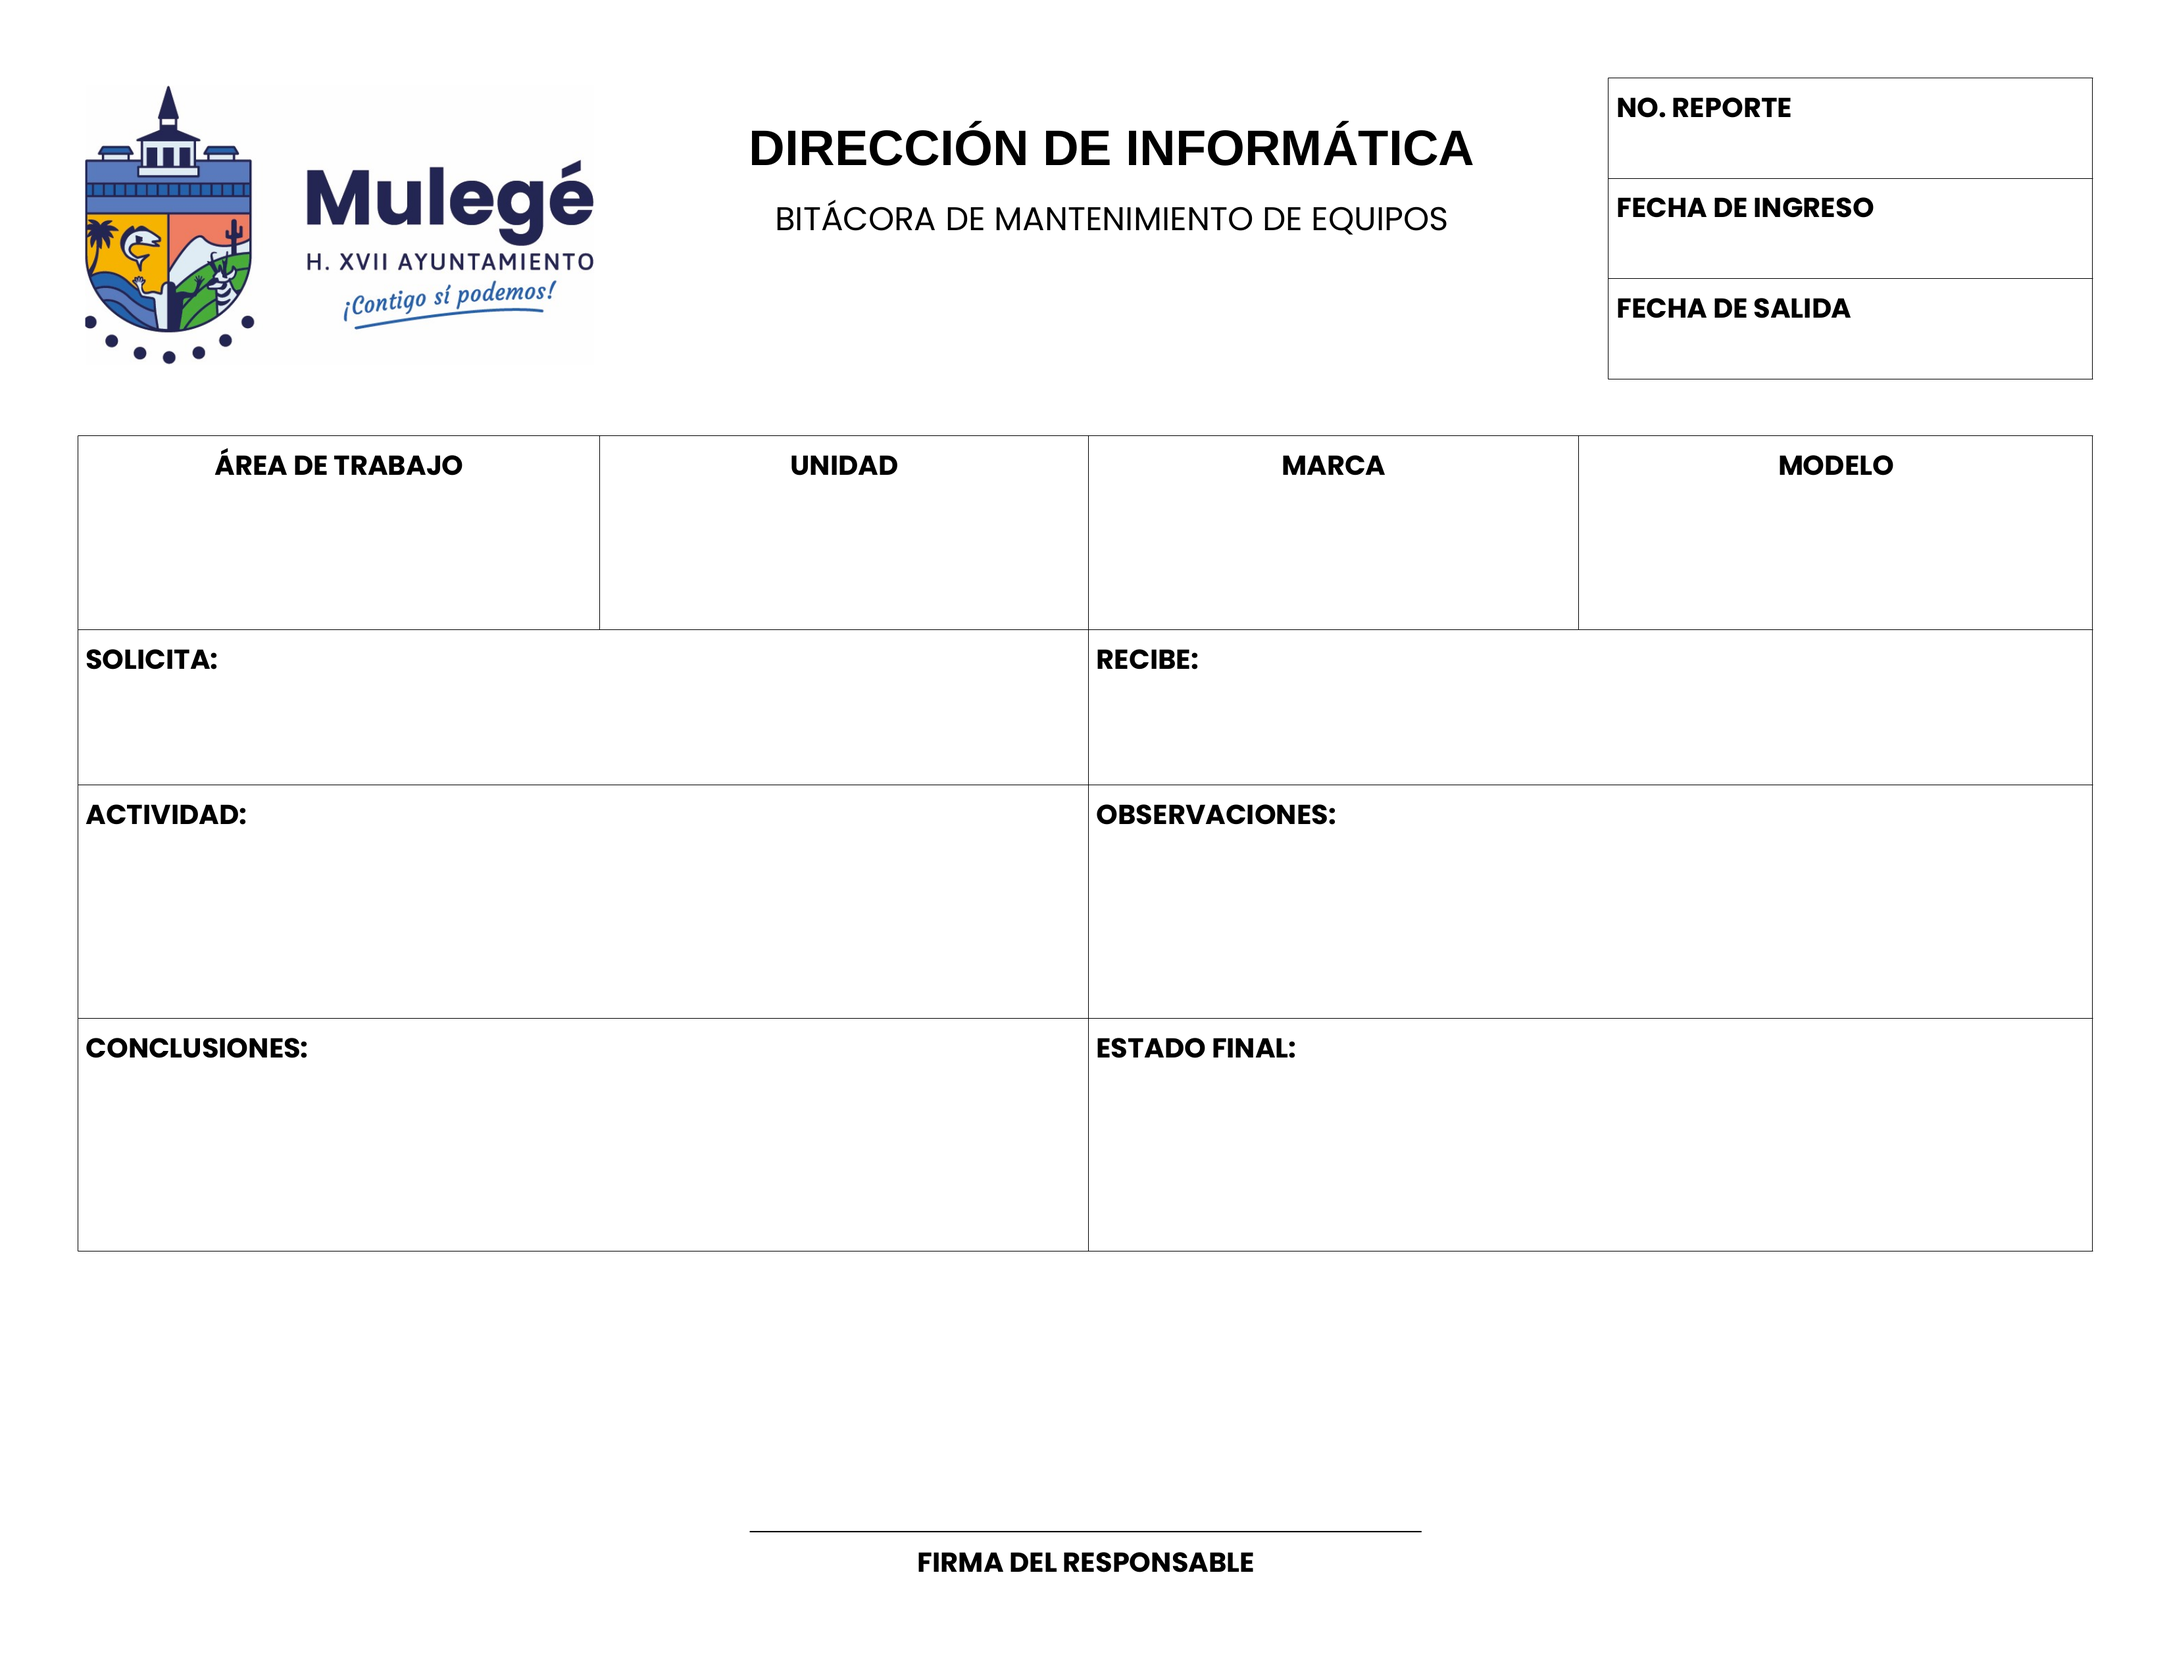
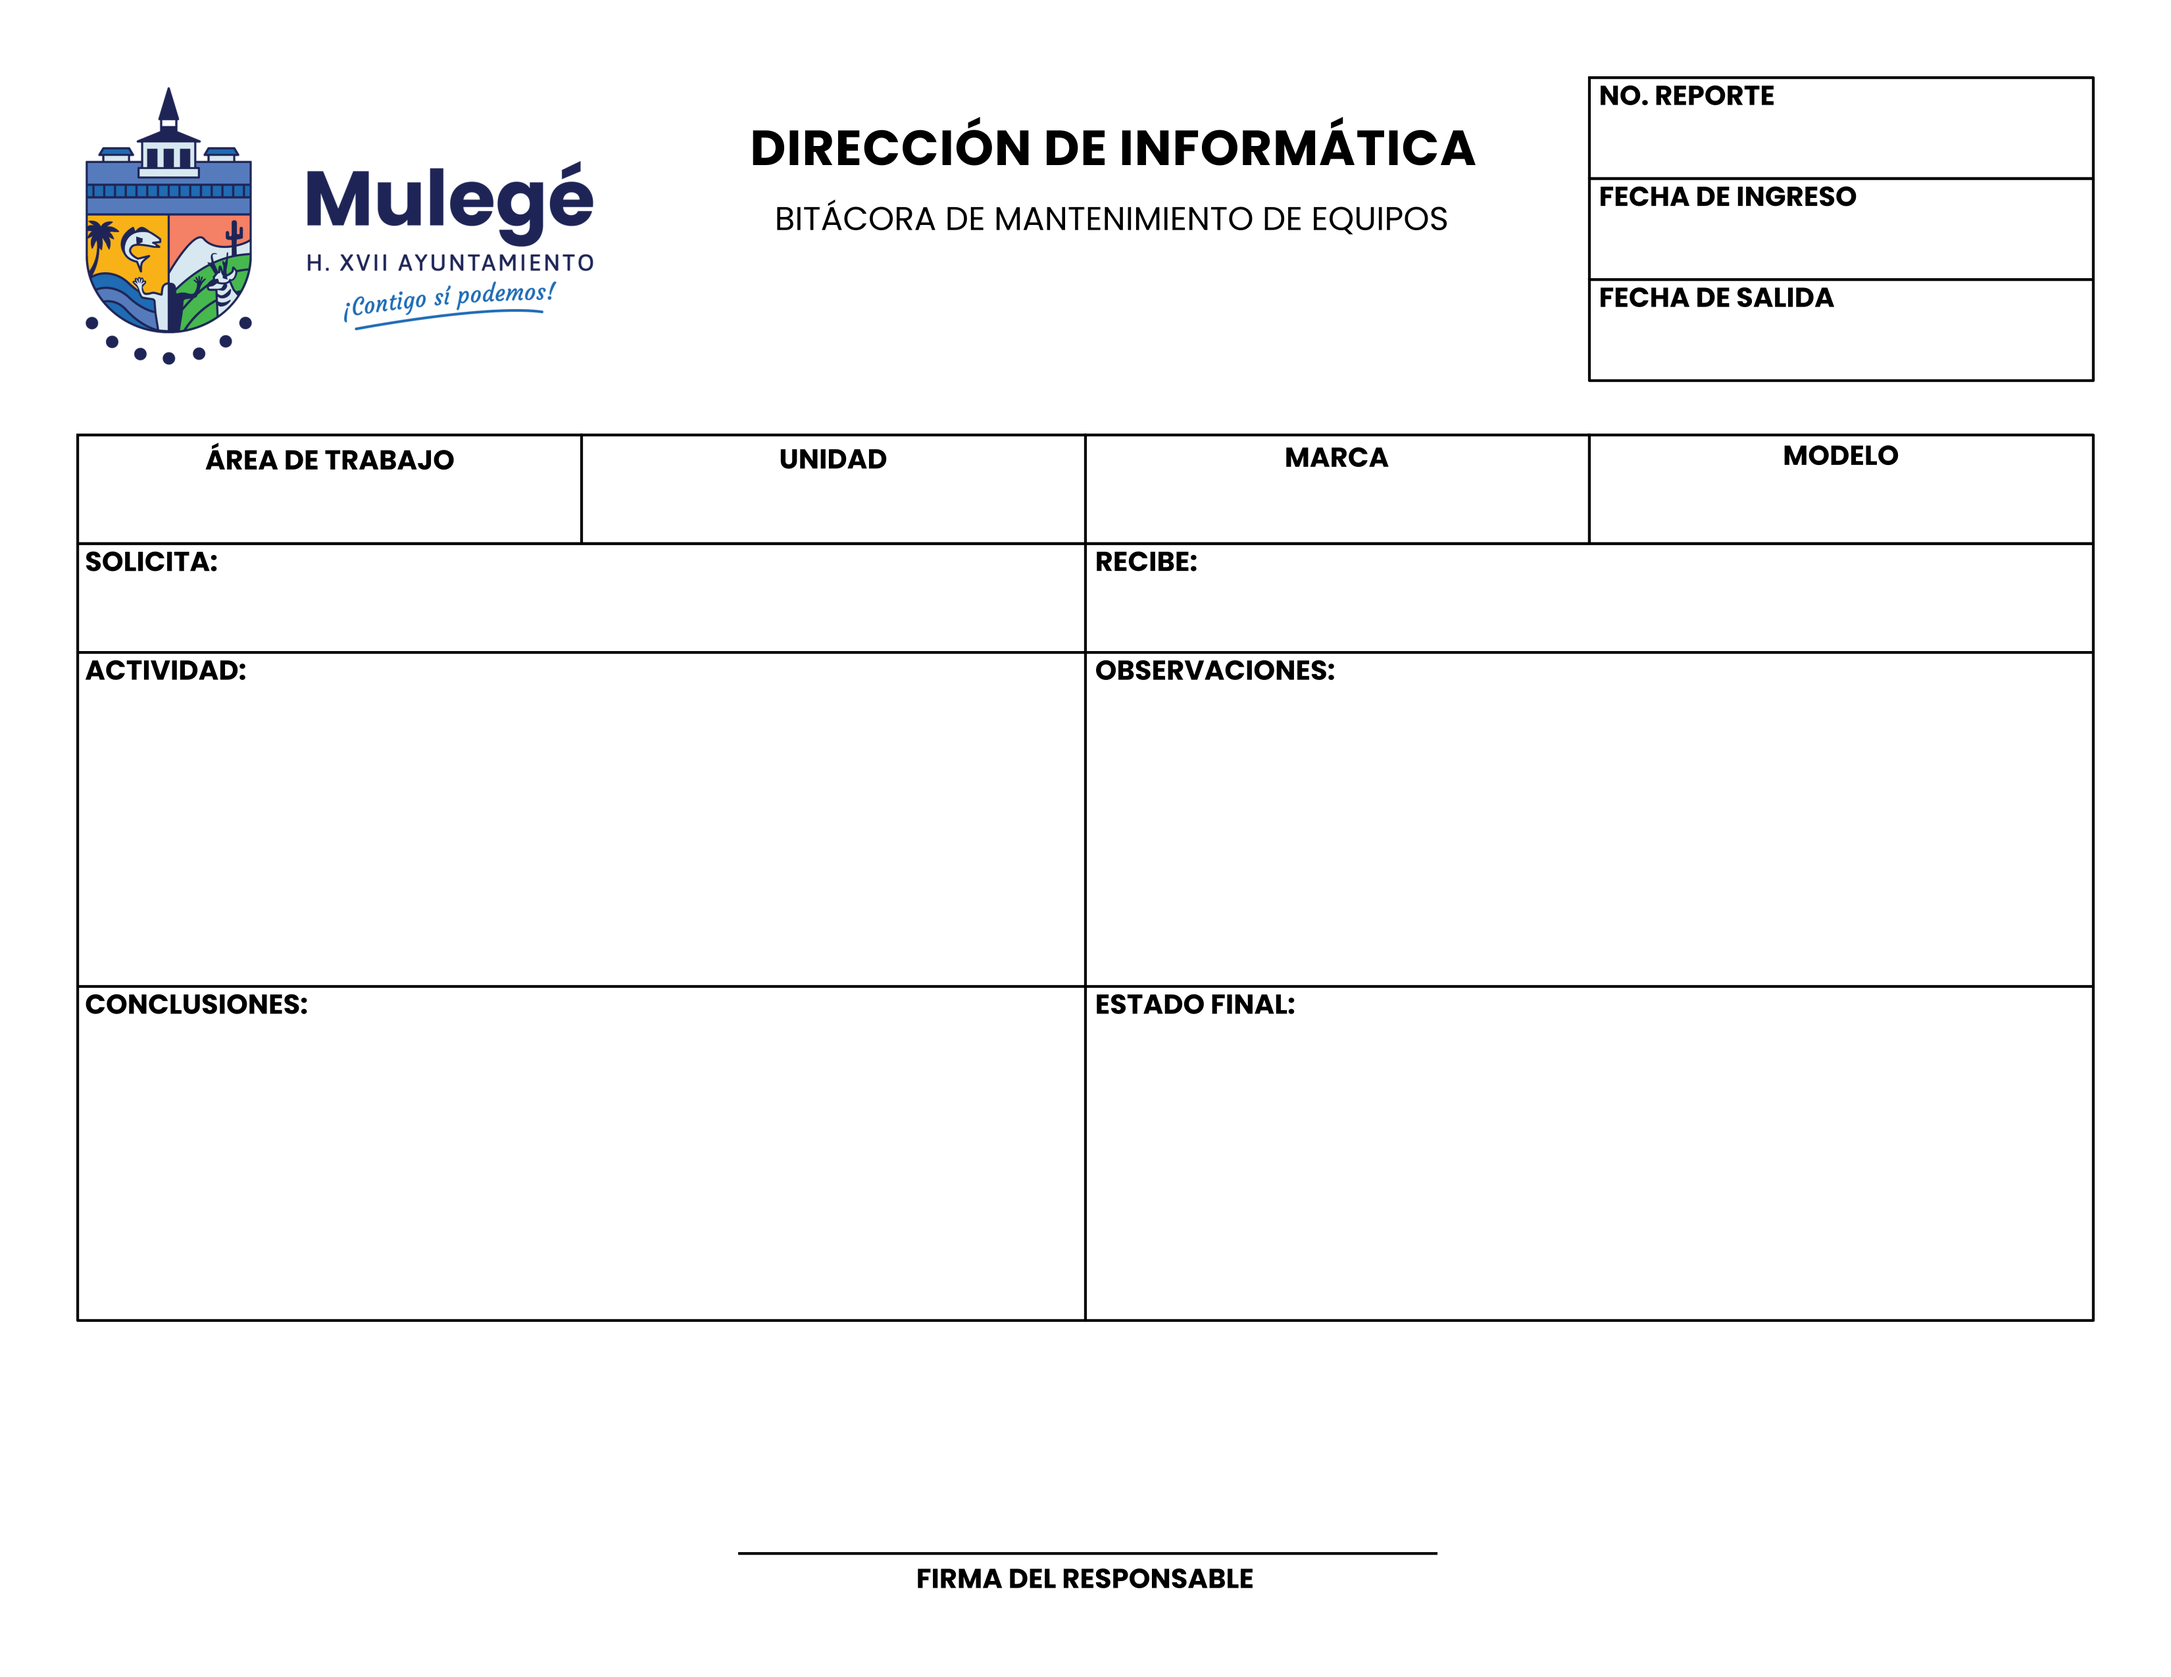
Cambios en plantilla para impresión.

diff --git a/imprimir_reporte_mantenimiento.php b/imprimir_reporte_mantenimiento.php
@@ -41,63 +41,63 @@ else {
             <div style="width: 100%; height: .7cm;"> </div>
 
             <!-- INFORMACIÓN DEL EQUIPO -->
-            <div style="display: flex; height: 2.5cm;">
+            <div style="display: flex; height: 1.4cm;">
               <!-- ÁREA DE TRABAJO -->
-              <div style="width: 25%; height: 2.5cm;">
-                <div style="padding-top: .7cm; text-align: center;"><?php echo $info_reporte['area_trabajo']; ?></div>
+              <div style="width: 25%;">
+                <div style="padding-top: .5cm; text-align: center;"><?php echo $info_reporte['area_trabajo']; ?></div>
               </div>
 
               <!-- UNIDAD -->
-              <div style="width: 25%; height: 2.5cm;">
-                <div style="padding-top: .7cm; text-align: center;"><?php echo $info_reporte['unidad']; ?></div>
+              <div style="width: 25%;">
+                <div style="padding-top: .5cm; text-align: center;"><?php echo $info_reporte['unidad']; ?></div>
               </div>
 
               <!-- MARCA -->
-              <div style="width: 25%; height: 2.5cm;">
-                <div style="padding-top: .7cm; text-align: center;"><?php echo $info_reporte['marca']; ?></div>
+              <div style="width: 25%;">
+                <div style="padding-top: .5cm; text-align: center;"><?php echo $info_reporte['marca']; ?></div>
               </div>
 
               <!-- MODELO -->
-              <div style="width: 25%; height: 2.5cm;">
-                <div style="padding-top: .7cm; text-align: center;"><?php echo $info_reporte['modelo']; ?></div>
+              <div style="width: 25%;">
+                <div style="padding-top: .5cm; text-align: center;"><?php echo $info_reporte['modelo']; ?></div>
               </div>
             </div>
 
             <!-- INFORMACIÓN DEL SOLICITANTE Y DE QUIEN RECIBE. -->
-            <div style="display: flex; height: 2cm;">
+            <div style="display: flex; height: 1.4cm;">
               <!-- SOLICITA -->
-              <div style="width: 50%; height: 2cm;">
-                <div style="width: 100%; height: 2cm; padding: .7cm .1cm 0 .1cm;">
+              <div style="width: 50%; height: 1.4cm;">
+                <div style="width: 100%; height: 1.4cm; padding: .5cm .1cm 0 .1cm;">
                   <?php echo $info_reporte['solicitante']; ?>
                 </div>
               </div>
 
               <!-- RECIBE -->
-              <div style="width: 50%; height: 2cm;">
-                <div style="width: 100%; height: 2cm; padding: .7cm .1cm 0 .1cm;"><?php echo $info_reporte['recibe']; ?></div>
+              <div style="width: 50%; height: 1.4cm;">
+                <div style="width: 100%; height: 1.4cm; padding: .5cm .1cm 0 .1cm;"><?php echo $info_reporte['recibe']; ?></div>
               </div>
             </div>
 
             <!-- INFORMACIÓN DE ACTIVIDAD -->
-            <div style="display: flex; height: 3cm;">
+            <div style="display: flex; height: 4.3cm;">
               <!-- ACTIVIDAD -->
-              <div style="width: 50%; height: 3cm; padding: .7cm .1cm 0 .1cm;"><?php echo $info_reporte['actividad']; ?></div>
+              <div style="width: 50%; height: 4.3cm; padding: .5cm .1cm 0 .1cm;"><?php echo $info_reporte['actividad']; ?></div>
 
               <!-- OBSERVACIONES -->
-              <div style="width: 50%; height: 3cm; padding: .7cm .1cm 0 .1cm;"><?php echo $info_reporte['observaciones']; ?></div>
+              <div style="width: 50%; height: 4.3cm; padding: .5cm .1cm 0 .1cm;"><?php echo $info_reporte['observaciones']; ?></div>
             </div>
 
             <!-- CONCLUSIONES Y ESTADO FINAL -->
-            <div style="display: flex; height:">
+            <div style="display: flex; height: 4.3cm;">
               <!-- CONCLUSIONES -->
-              <div style="width: 50%; height: 3cm; padding: .7cm .1cm 0 .1cm;"><?php echo $info_reporte['conclusiones']; ?></div>
+              <div style="width: 50%; height: 4.3cm; padding: .5cm .1cm 0 .1cm;"><?php echo $info_reporte['conclusiones']; ?></div>
 
               <!-- ESTADO FINAL -->
-              <div style="width: 50%; height: 3cm; padding: .7cm .1cm 0 .1cm;"><?php echo $info_reporte['estado_final']; ?></div>
+              <div style="width: 50%; height: 4.3cm; padding: .5cm .1cm 0 .1cm;"><?php echo $info_reporte['estado_final']; ?></div>
             </div>
 
             <!-- ESPACIO VACÍO -->
-            <div style="width: 100%; height: 3cm; float: left;"> </div>
+            <div style="width: 100%; height: 2.5cm; float: left;"> </div>
 
             <!-- FIRMA DEL RESPONSABLE -->
               <div style="width: 100%; height: .6cm; float: left; text-align: center;"><?php echo $info_reporte['responsable']; ?></div>
